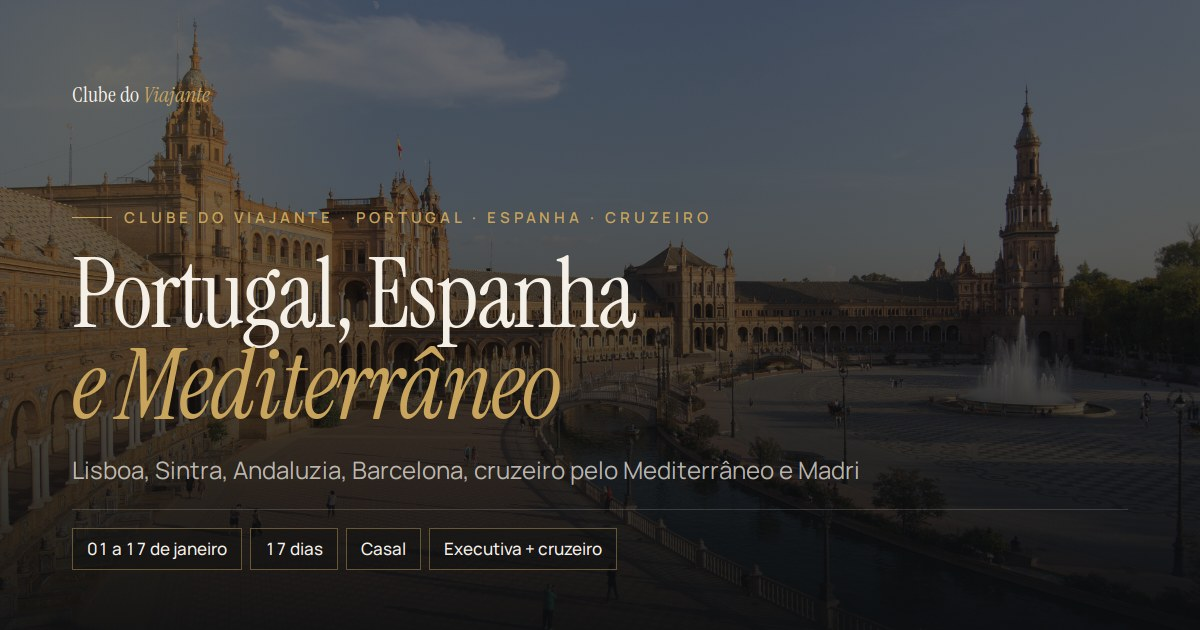
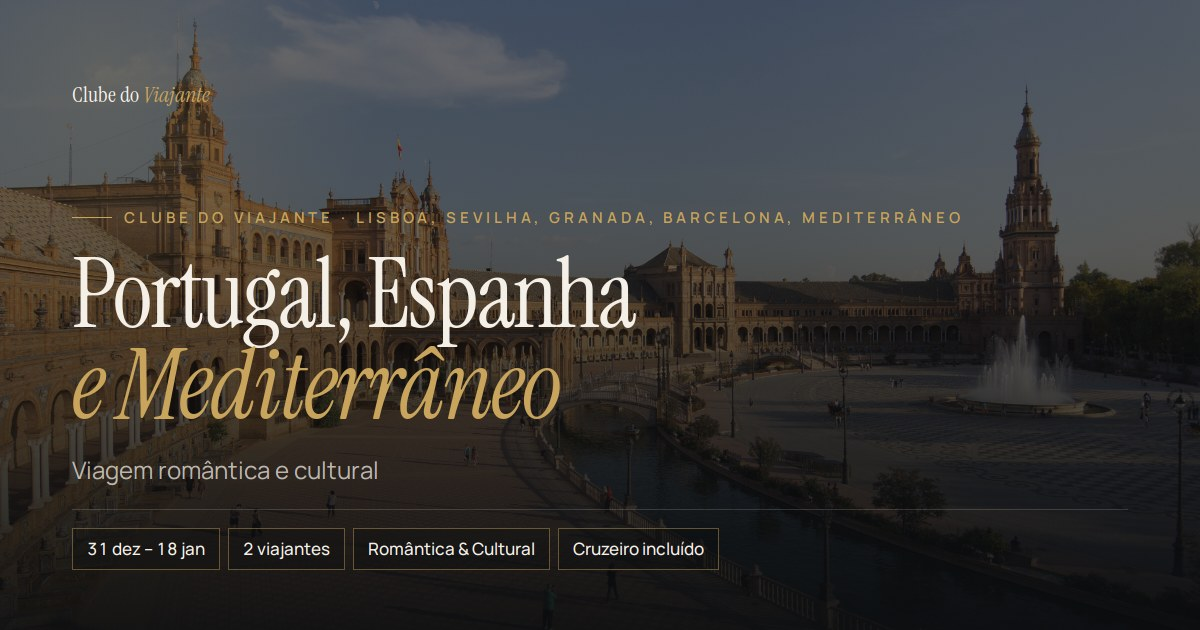
roteiro: capa de preview (membro-portugal-espanha-mediterraneo-1uveh )

Changed region(s): [[0.0617, 0.7238, 0.7092, 0.7841], [0.0925, 0.8444, 0.5858, 0.9048], [0.3083, 0.3317, 0.8017, 0.3619]]

diff --git a/membro-portugal-espanha-mediterraneo-1uveh/index.html b/membro-portugal-espanha-mediterraneo-1uveh/index.html
@@ -12,14 +12,14 @@
 <meta property="og:title" content="Portugal, Espanha e Mediterrâneo"/>
 <meta property="og:description" content="Viagem romântica e cultural"/>
 <meta property="og:url" content="https://roteiros.clubedoviajante.com.br/membro-portugal-espanha-mediterraneo-1uveh/"/>
-<meta property="og:image" content="https://upload.wikimedia.org/wikipedia/commons/b/b6/Plaza_de_Espa%C3%B1a_%28Sevilla%29_-_01.jpg"/>
-<meta property="og:image:secure_url" content="https://upload.wikimedia.org/wikipedia/commons/b/b6/Plaza_de_Espa%C3%B1a_%28Sevilla%29_-_01.jpg"/>
+<meta property="og:image" content="https://roteiros.clubedoviajante.com.br/membro-portugal-espanha-mediterraneo-1uveh/capa.jpg?v=1794674541"/>
+<meta property="og:image:secure_url" content="https://roteiros.clubedoviajante.com.br/membro-portugal-espanha-mediterraneo-1uveh/capa.jpg?v=1794674541"/>
 <meta property="og:image:type" content="image/jpeg"/>
 <meta property="og:image:width" content="1200"/>
 <meta property="og:image:height" content="630"/>
 <meta property="og:image:alt" content="Portugal, Espanha e Mediterrâneo"/>
 <meta name="twitter:card" content="summary_large_image"/>
-<meta name="twitter:image" content="https://upload.wikimedia.org/wikipedia/commons/b/b6/Plaza_de_Espa%C3%B1a_%28Sevilla%29_-_01.jpg"/>
+<meta name="twitter:image" content="https://roteiros.clubedoviajante.com.br/membro-portugal-espanha-mediterraneo-1uveh/capa.jpg?v=1794674541"/>
 <meta name="twitter:title" content="Portugal, Espanha e Mediterrâneo"/>
 <meta name="twitter:description" content="Viagem romântica e cultural"/>
 <meta name="claude:viewport-fit-sides" content="cover">
